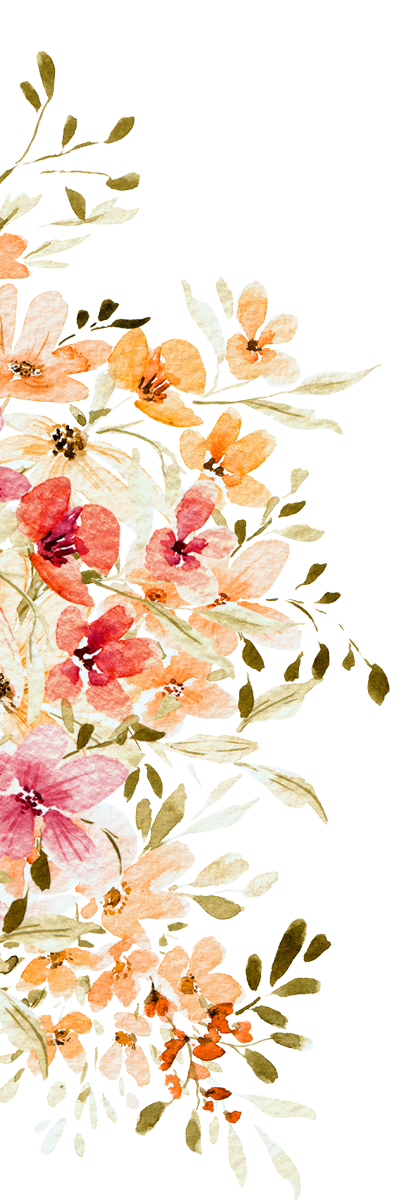
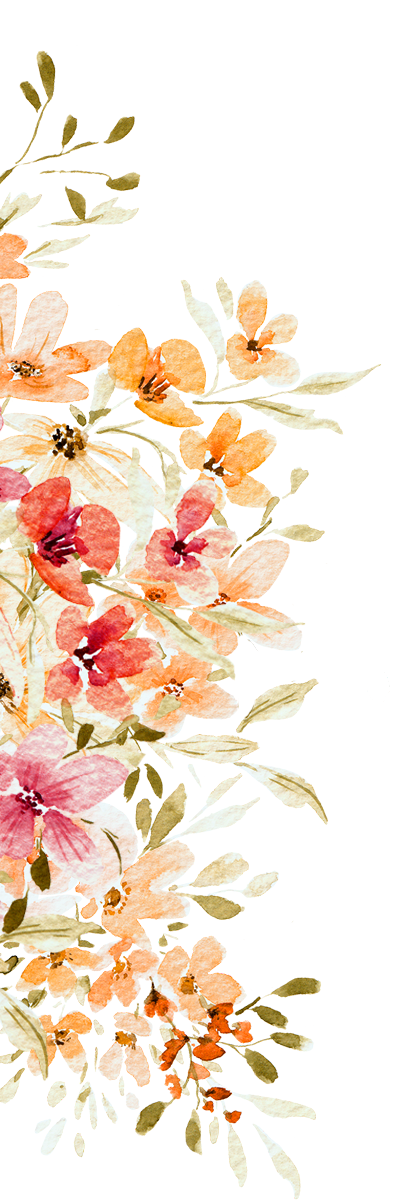
...

diff --git a/stylesResponsive.css b/stylesResponsive.css
@@ -1,4 +1,55 @@
 
+@media (max-width: 1280px) {
+  .texto {
+    font-size: 6rem;
+  }
+  .imagen-comun{
+    width: 45%;
+
+  }
+  .contenedorHijo p{
+    margin:5%;
+  }
+  .tituloPrincipal{
+    font-size: 3rem;
+  }
+  .contenedor-variosDerecha .varios {
+    top: 25%;
+  }
+  .countdown-item {
+    margin: 0 7px;
+    padding: 10px;
+    height: 100px;
+    width: 100px;
+
+    border-radius: 10px;
+    box-shadow: 0 0 10px rgba(0, 0, 0, 0.5);
+  }
+  .countdown-item .reloj {
+    font-size: 2.5rem;
+  }
+  .countdown-item .subTituloReloj {
+    font-size: 1.2rem;
+  }
+
+  .contenedor-carrusel {
+    width: 65%;
+    margin: 15px 0;
+  }
+
+  .contenedor-varios {
+    top: 9%;
+  }
+  .contenedor-varios .varios {
+    top: -50%;
+  }
+  .contenedor-variosDerecha{
+    top: 10%;
+  }
+  .contenedor-variosDerecha .varios{
+    top: -35%;
+  }
+}
 
 @media (max-width: 428px) {
   #fondo {
@@ -6,7 +57,7 @@
     background-position: center; /* Centra la imagen horizontalmente */
   }
   .portada {
-    content: url("img/imgPrincipal.png");
+    content: url("img/imgPrincipal.webp");
     width: 100%;
     max-width: 100%;
     height: auto;
@@ -189,17 +240,17 @@
   }
 
   .contenedor-varios {
-    top: 10%;
+    top: 9%;
   }
   .contenedor-varios .varios {
     top: -75%;
   }
 
   .contenedor-variosDerecha {
-    top: 15%;
+    top: 20%;
   }
   .contenedor-variosDerecha .varios {
-    top: -20%;
+    top: -55%;
   }
   .figure-lados {
     width: 35%;
@@ -237,7 +288,7 @@
     border-radius: 20%;
   }
   #imgYapePlin {
-    width: 15%;
+    width: 10%;
     border-radius: 8%;
     margin: 3% 0;
   }
@@ -292,6 +343,8 @@
     margin: 15px 0;
   }
 }
+
+
 @media (max-width: 360px) {
   .texto {
     font-size: 3.5rem;
@@ -303,7 +356,7 @@
     font-size: 1.8rem;
   }
   .contenedor-variosDerecha .varios {
-    top: -7%;
+    top: -5%;
   }
   .countdown-item {
     margin: 0 7px;
@@ -320,4 +373,50 @@
   .countdown-item .subTituloReloj {
     font-size: 0.8rem;
   }
+}
+
+
+
+@media (max-width: 320px) {
+  .texto {
+    font-size: 3.5rem;
+  }
+  .contenedorHijo p{
+    margin:5%;
+  }
+  .tituloPrincipal{
+    font-size: 1.8rem;
+  }
+  .contenedor-variosDerecha {
+    top: 23%;
+  }
+  .contenedor-variosDerecha .varios {
+    top: -50%;
+  }
+  .countdown-item {
+    margin: 0 7px;
+    padding: 10px;
+    height: 60px;
+    width: 60px;
+
+    border-radius: 10px;
+    box-shadow: 0 0 10px rgba(0, 0, 0, 0.5);
+  }
+  .countdown-item .reloj {
+    font-size: 1.2rem;
+  }
+  .countdown-item .subTituloReloj {
+    font-size: 0.8rem;
+  }
+  .img-linea-tiempo {
+    width: 80%;
+    /* top: 50px; */
+    padding-right: 10px;
+}
+.contenedor-celda-izquierda {
+  padding-right: 20px;
+}
+.contenedor-fila-horario {
+  width: 100%;
+}
 }

diff --git a/index.html b/index.html
@@ -35,7 +35,7 @@
     <!-- FONDO  -->
     <img id="fondo" src="img/fondoDesktop.gif" alt="fondoBod" />
     <!--CONTENEDOR -->
-    <img class="portada" src="img/banners.png" alt="Imagen1" />
+    <img class="portada" src="img/banners.webp" alt="Imagen1" />
     <div class="containt">
       <!-- ARCO DE FLOR SUPERIOR -->
       <figure class="element__efect">
@@ -168,7 +168,7 @@
               <p class="text">Av. Sánchez Carrión 1545</p>
               <a
                 class="boton btn"
-                href="https://maps.app.goo.gl/cPDLxJrgAkcu5ivw8"
+                href="https://maps.app.goo.gl/aAE19a7czr11YCmZ8"
                 target="_blank"
                 >Ver ubicación</a
               >
@@ -237,8 +237,10 @@
               <p class="text text-boda-poema">Uno solo puede ser vencido,</p>
               <p class="text-name-novios">pero dos pueden resistir.</p>
               <p class="text text-boda-poema">
-                ¡La cuerda de tres hilos no se rompe fácilmente! Eclesiastés
-                4:12
+                ¡La cuerda de tres hilos no se rompe fácilmente!.
+              </p>
+              <p class="text text-boda-poema">
+              Eclesiastés 4:12
               </p>
             </div>
 
@@ -296,7 +298,7 @@
             <div class="contenedor-frases">
               <p class="text-boda text-boda-poema">La pasaremos genial</p>
               <p class="text frases">
-                Te agradecemos que nos confirmes tu asistencia antes del 1 de
+                Te agradecemos que nos confirmes tu asistencia antes del 01 de
                 enero. Tu respuesta es muy importante para nosotros.
               </p>
             </div>
@@ -355,7 +357,7 @@
 
               <img class="img-icon" src="img/casa.png" alt="icon-casa-regalos" />
 
-              <a class="boton btn" href="https://maps.app.goo.gl/nfFriLxXE4Lf4kpr6"
+              <a class="btn-numero boton btn" href="https://maps.app.goo.gl/nfFriLxXE4Lf4kpr6" target="_blank"
                 >Av. Jaime Blanco 1648 - El Porvenir</a
               >
               <p class="text frases">

diff --git a/styles.css b/styles.css
@@ -465,7 +465,7 @@ border-radius: 1rem!important;
   border-radius: 20%;
 }
 #imgYapePlin{
-  width: 9%;
+  width: 5%;
   border-radius: 8%;
   margin: 3% 0;
 
@@ -523,6 +523,7 @@ border-radius: 1rem!important;
   cursor: pointer;
   display: inline-block;
   margin: 20px 0;
+  font-size: 1.3rem;
 }
 .boton:hover{
   background-color: #B55223;
@@ -638,7 +639,7 @@ p{
 [data-animation="fade"] {
   opacity: 0;
   /* transform: translate(7%); */
-  scale: 0.9;
+  scale: 0.8;
   transition: 0.9s ease-in 0.3s;
 
   --opacity: 1;
@@ -648,7 +649,7 @@ p{
 [data-animation="fadeI"] {
   opacity: 0;
   /* transform: translate(-7%); */
-  scale: 0.9;
+  scale: 0.8;
   transition: 0.9s ease-in 0.3s;
 
   --opacity: 1;
